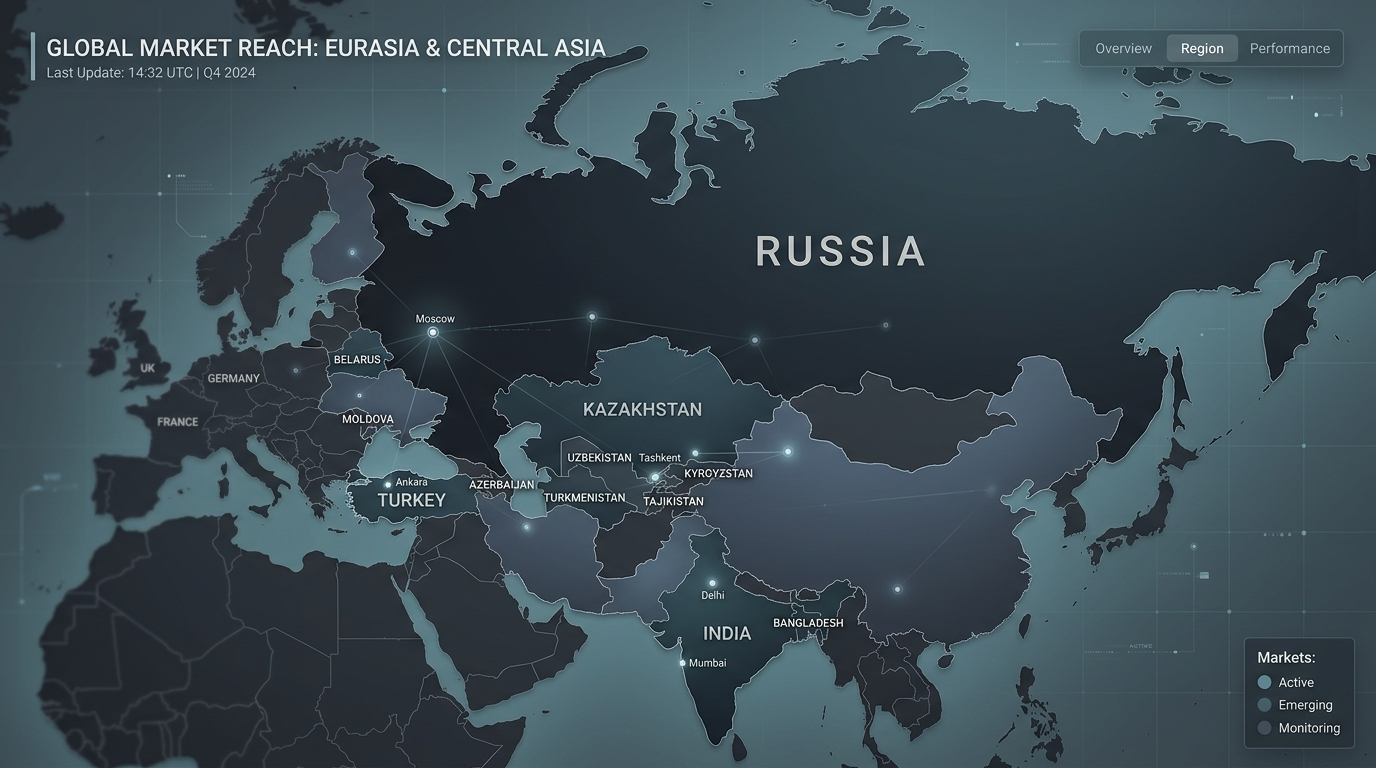
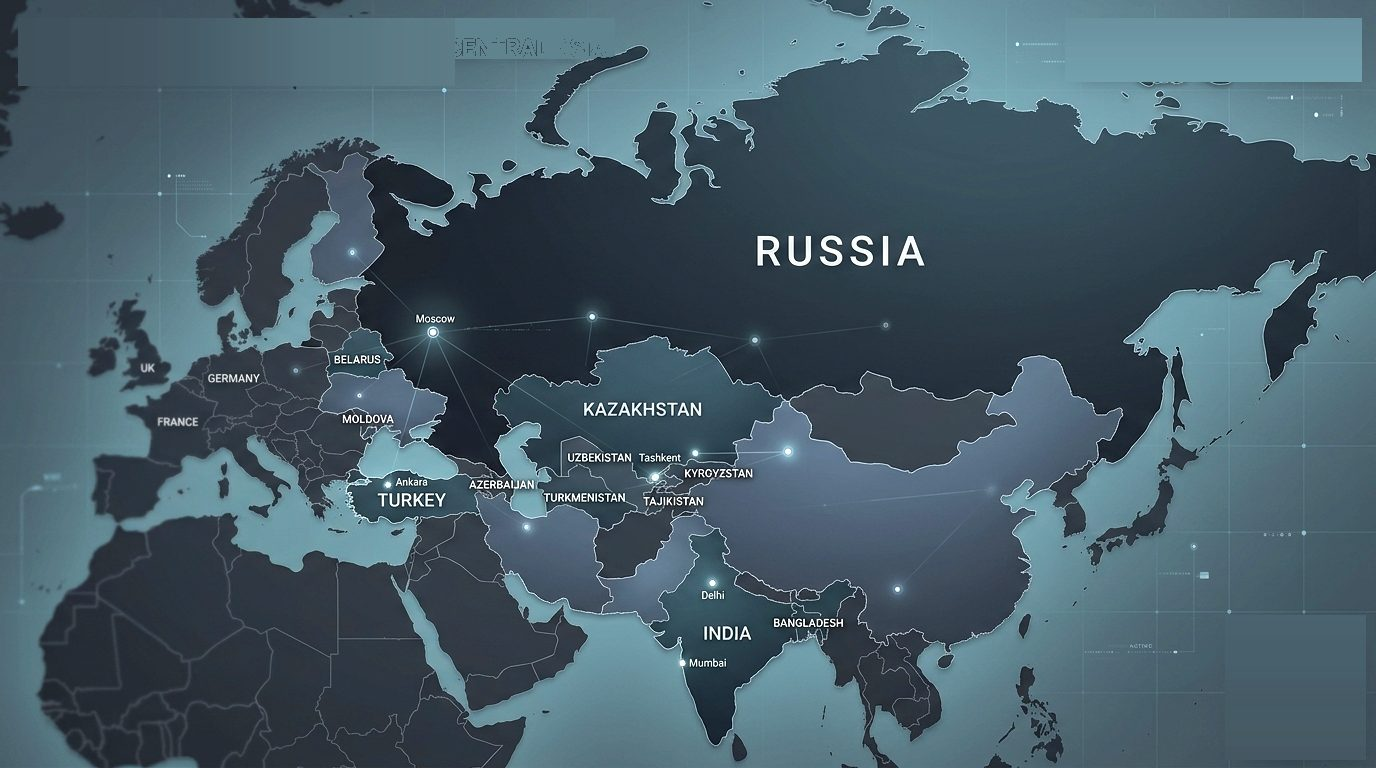
fix(demographics): add light/dark Eurasia map images and remove dark-mode lock in light theme

diff --git a/src/components/demographics/WorldDemographicsMap.tsx b/src/components/demographics/WorldDemographicsMap.tsx
@@ -300,17 +300,27 @@ export default function WorldDemographicsMap({
           </div>
         </div>
 
-        {/* Map Container: Brightened Modern Cartographic Canvas */}
-        <div className="relative w-full aspect-[16/9] min-h-[400px] max-h-[620px] mt-4 rounded-2xl overflow-hidden border border-slate-200 dark:border-slate-800 shadow-xl bg-slate-900 select-none">
-          {/* Base Real Geopolitical Eurasia Map Image - Brightened & High Clarity */}
+        {/* Map Container: Adaptive Light Mode & Dark Mode Cartographic Canvas */}
+        <div className="relative w-full aspect-[16/9] min-h-[400px] max-h-[620px] mt-4 rounded-2xl overflow-hidden border border-slate-200 dark:border-slate-800 shadow-xl bg-gradient-to-br from-[#e8f2fa] via-[#f2f8fd] to-[#dfeaf5] dark:from-[#0f172a] dark:via-[#111c33] dark:to-[#090f1d] select-none">
+          {/* Light Mode Geopolitical Eurasia Map Image */}
           <img
-            src="/images/eurasia_map.jpg"
-            alt="Eurasia Geopolitical Map"
-            className="w-full h-full object-cover object-center filter brightness-[1.38] contrast-[1.08] saturate-[1.12]"
+            src="/images/eurasia_map_light.jpg"
+            alt="Eurasia Geopolitical Map (Light)"
+            loading="eager"
+            fetchPriority="high"
+            className="w-full h-full object-cover object-center block dark:hidden"
+          />
+          {/* Dark Mode Geopolitical Eurasia Map Image */}
+          <img
+            src="/images/eurasia_map_dark.jpg"
+            alt="Eurasia Geopolitical Map (Dark)"
+            loading="eager"
+            fetchPriority="high"
+            className="w-full h-full object-cover object-center hidden dark:block"
           />
 
-          {/* Subtle Ambient Atmosphere Glow */}
-          <div className="absolute inset-0 bg-gradient-to-t from-slate-950/40 via-transparent to-sky-950/15 pointer-events-none" />
+          {/* Subtle Ambient Atmosphere Glow (Dark Mode only so Light Mode stays crisp & bright) */}
+          <div className="absolute inset-0 hidden dark:block bg-gradient-to-t from-slate-950/35 via-transparent to-sky-950/15 pointer-events-none" />
 
           {/* SVG LEADER LINES OVERLAY (Haritadaki merkez noktalardan rozetlere uzanan şık çizgiler) */}
           <svg
